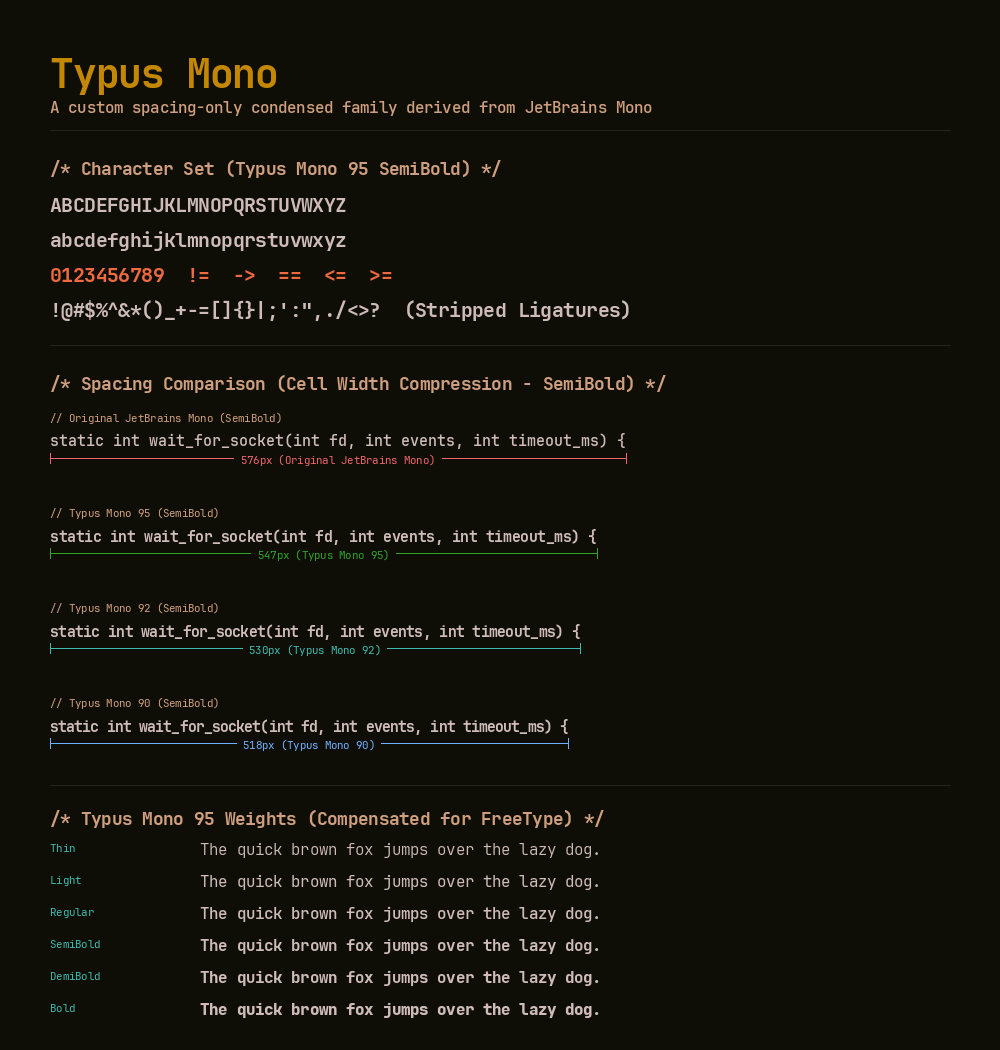
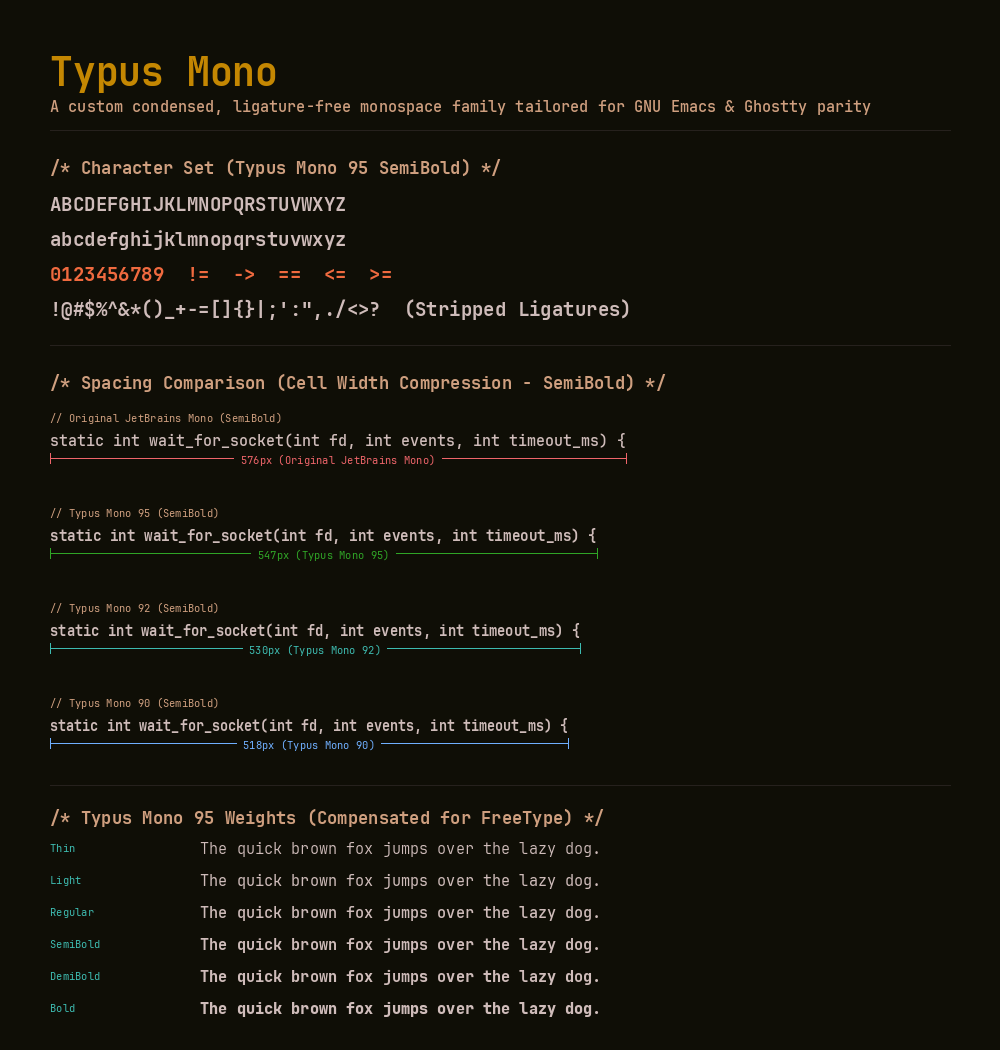
docs: update specimen and README paragraph

diff --git a/generate_specimen.py b/generate_specimen.py
@@ -75,7 +75,7 @@ def main():
     draw.text((50, 45), "Typus Mono", fill=keyword_color, font=title_font)
     draw.text(
         (50, 95),
-        "A custom spacing-only condensed family derived from JetBrains Mono",
+        "A custom condensed, ligature-free monospace family tailored for GNU Emacs",
         fill=comment_color,
         font=tagline_font,
     )

diff --git a/README.md b/README.md
@@ -18,10 +18,10 @@ To dissolve this mismatch and bring the exact, beloved Ghostty text layout into 
 
 To achieve a pixel-perfect layout duplicate without ruining legibility, the customization relies on two key modifications:
 
-### 1. Spacing-Only Metrics Compression (90%, 92%, and 95% Widths)
-A naive approach would simply scale the font coordinates horizontally. However, horizontal scaling distorts the glyph vectors, turning round shapes into ugly ovals and breaking subpixel hints.
+### 1. Proportional Outline & Metrics Compression (90%, 92%, and 95% Widths)
+To faithfully mirror Ghostty's cell compression (`adjust-cell-width = -1`), I've proportionally scaled glyph outlines and advance metrics down to **90%**, **92%**, or **95%**.
 
-Typus Mono preserves the glyph outlines **100% untouched**. Instead, it scales only the horizontal advance metrics (`hmtx` table) down to **90%**, **92%**, or **95%**. The characters keep their original, beautifully designed proportions but are packed closer together - exactly mirroring Ghostty's cell width adjustment.
+Each glyph's bounding box and sidebearings (`LSB` and `RSB`) are dynamically recalculated and centered, guaranteeing perfectly balanced letter margins and zero optical distortion across all font sizes.
 
 ### 2. Shifted Weight Mapping (Compensating for FreeType)
 When comparing GUI Emacs with Ghostty, my eyes immediately noticed a weight discrepancy. GPU-accelerated terminal renderers (such as Ghostty's custom shaders) naturally draw text with slightly more visual weight ("density"). Emacs GUI, using standard FreeType rasterization on Linux, renders the exact same font files noticeably thinner.
